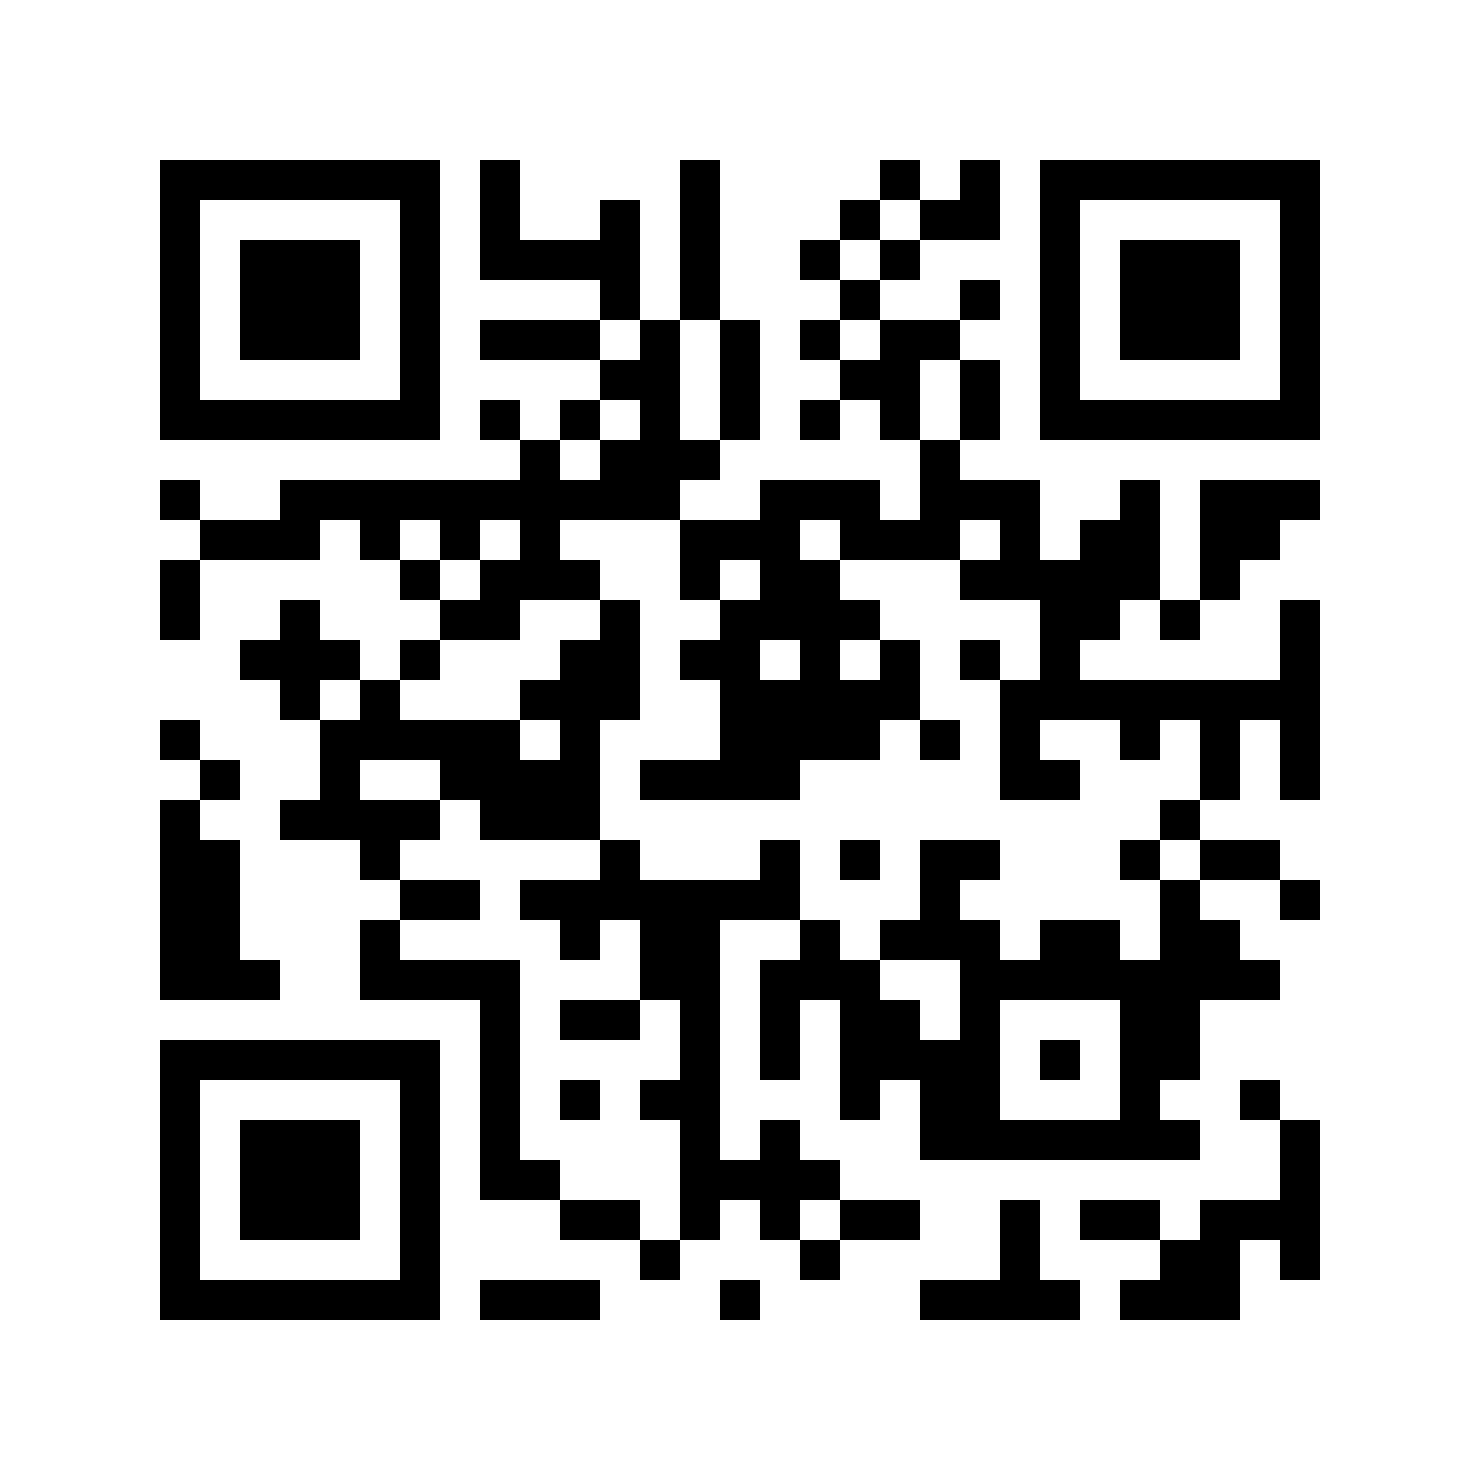
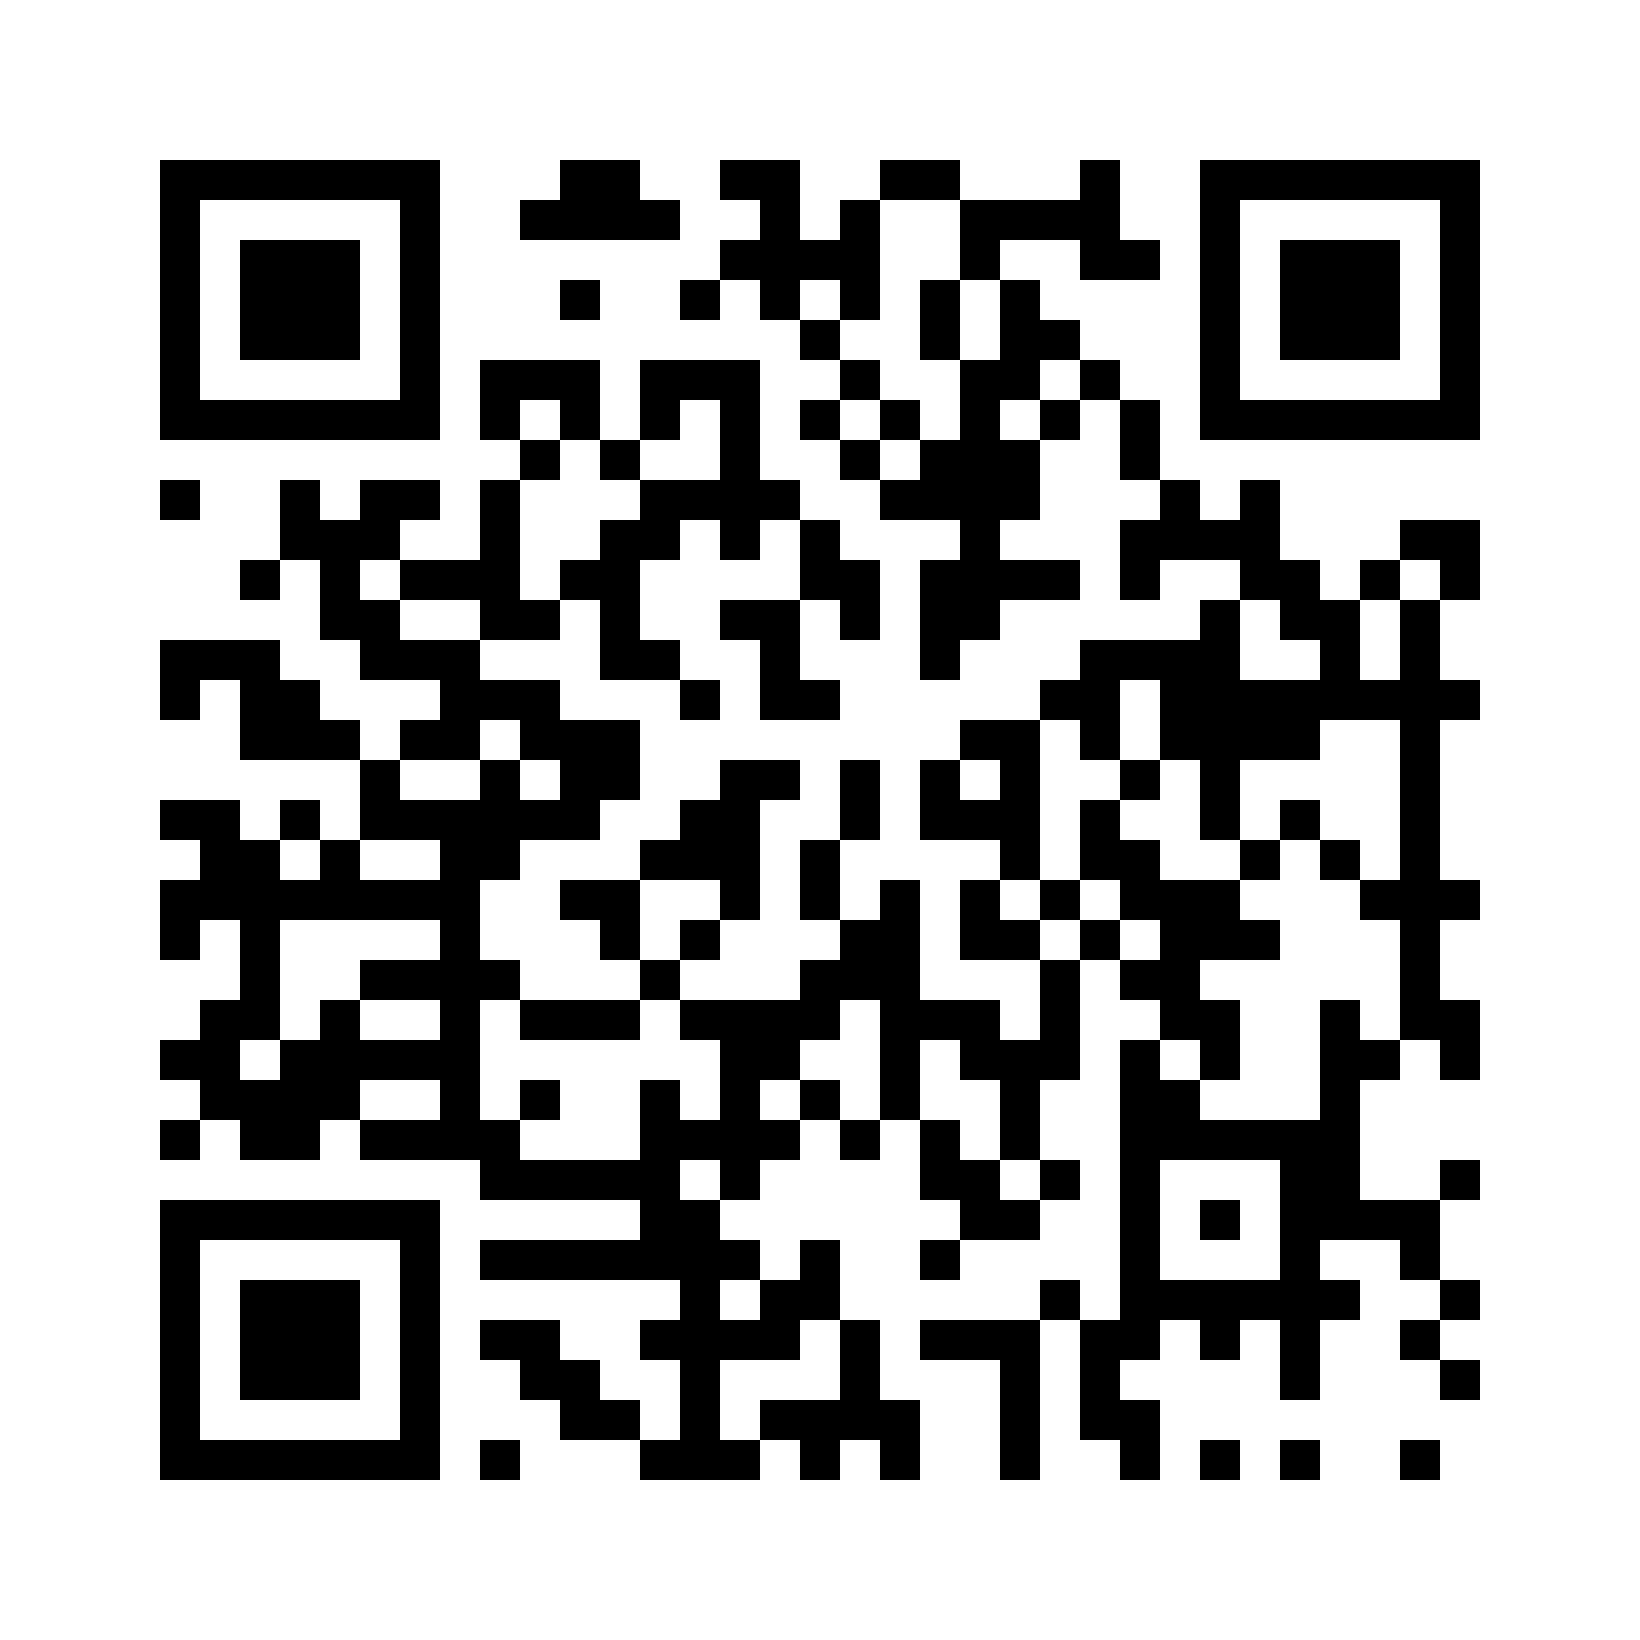
Neue WBD-Seitenadresse und Veranstaltungs-QR; offizielles Mitarbeiterfoto

diff --git a/index.html b/index.html
@@ -6,11 +6,12 @@
 <meta name="color-scheme" content="light">
 <meta name="description" content="Patrick Kreutzer, LL.M. – Digitalisierung und Prozessmanagement bei Wohnbau Derr. Kontaktdaten speichern und auf LinkedIn vernetzen.">
 <meta name="referrer" content="no-referrer">
+<link rel="canonical" href="https://voxxxyn.github.io/visitenkarte-wbd/">
 <title>Patrick Kreutzer, LL.M. · Kontakt</title>
-<link rel="icon" href="assets/profil.png" type="image/png">
+<link rel="icon" href="assets/profil.webp" type="image/webp">
 <style>
 :root{--ink:#202b48;--muted:#58647b;--accent:#231f8e;--paper:#fffefd;--line:#dce1ed;--bg:#f0f2f8}
-*{box-sizing:border-box}body{margin:0;background:var(--bg);color:var(--ink);font-family:-apple-system,BlinkMacSystemFont,"Segoe UI",Arial,sans-serif;line-height:1.5}main{min-height:100svh;display:grid;place-items:center;padding:48px 24px}.card{width:min(900px,100%);background:var(--paper);border:1px solid var(--line);border-radius:28px;overflow:hidden;box-shadow:0 24px 70px #1728630d}.stripe{height:7px;background:var(--accent)}.layout{display:grid;grid-template-columns:1fr 1fr}.identity{padding:48px 42px;background:#f7f8fc;border-right:1px solid var(--line)}.portrait{display:block;width:128px;height:128px;border-radius:50%;margin-bottom:30px}.eyebrow{font-size:11px;font-weight:700;letter-spacing:.17em;text-transform:uppercase;color:var(--accent);margin:0 0 18px}h1{font-family:Georgia,"Times New Roman",serif;font-size:43px;line-height:1.1;font-weight:400;letter-spacing:-.035em;margin:0 0 10px}h1 span{display:block}.degree{font-size:21px;font-family:inherit;color:var(--muted);margin:0 0 24px}.role{font-size:17px;max-width:290px;margin:0 0 8px}.company{font-weight:700;font-size:14px;margin:0;color:var(--accent)}.contact{padding:48px 36px}.intro{font-family:Georgia,"Times New Roman",serif;font-weight:400;font-size:27px;line-height:1.2;margin:0 0 27px}.actions{display:grid;gap:12px}a{color:var(--accent);text-underline-offset:4px}.button{display:flex;align-items:center;justify-content:space-between;gap:12px;min-height:58px;padding:14px 18px;border:1px solid var(--line);border-radius:12px;text-decoration:none;font-size:15px;font-weight:600;background:var(--paper)}.primary{background:var(--accent);border-color:var(--accent);color:white}.button:hover{box-shadow:0 3px 12px #17286316;transform:translateY(-1px)}a:focus-visible,summary:focus-visible{outline:3px solid #a16c12;outline-offset:4px}.arrow{font-size:19px}.contact-data{margin:29px 0 23px}.contact-data dt{font-size:11px;text-transform:uppercase;letter-spacing:.1em;color:var(--muted);margin-top:15px}.contact-data dd{margin:3px 0 0;font-size:14px;overflow-wrap:anywhere}.contact-data a{text-decoration:none}.contact-data a:hover{text-decoration:underline}details{border-top:1px solid var(--line);padding-top:18px}summary{cursor:pointer;font-size:13px;color:var(--muted);padding:3px 0}.qr{display:block;width:min(240px,100%);height:auto;margin:18px auto 8px}.qr-caption{text-align:center;font-size:12px;margin:0 0 9px}.foot{border-top:1px solid var(--line);padding:17px 36px;display:flex;flex-wrap:wrap;gap:8px 20px;justify-content:space-between;font-size:11px;color:var(--muted)}.foot a{color:inherit}
+*{box-sizing:border-box}body{margin:0;background:var(--bg);color:var(--ink);font-family:-apple-system,BlinkMacSystemFont,"Segoe UI",Arial,sans-serif;line-height:1.5}main{min-height:100svh;display:grid;place-items:center;padding:48px 24px}.card{width:min(900px,100%);background:var(--paper);border:1px solid var(--line);border-radius:28px;overflow:hidden;box-shadow:0 24px 70px #1728630d}.stripe{height:7px;background:var(--accent)}.layout{display:grid;grid-template-columns:1fr 1fr}.identity{padding:48px 42px;background:#f7f8fc;border-right:1px solid var(--line)}.portrait{display:block;width:128px;height:128px;object-fit:cover;object-position:50% 35%;border-radius:50%;margin-bottom:30px}.eyebrow{font-size:11px;font-weight:700;letter-spacing:.17em;text-transform:uppercase;color:var(--accent);margin:0 0 18px}h1{font-family:Georgia,"Times New Roman",serif;font-size:43px;line-height:1.1;font-weight:400;letter-spacing:-.035em;margin:0 0 10px}h1 span{display:block}.degree{font-size:21px;font-family:inherit;color:var(--muted);margin:0 0 24px}.role{font-size:17px;max-width:290px;margin:0 0 8px}.company{font-weight:700;font-size:14px;margin:0;color:var(--accent)}.contact{padding:48px 36px}.intro{font-family:Georgia,"Times New Roman",serif;font-weight:400;font-size:27px;line-height:1.2;margin:0 0 27px}.actions{display:grid;gap:12px}a{color:var(--accent);text-underline-offset:4px}.button{display:flex;align-items:center;justify-content:space-between;gap:12px;min-height:58px;padding:14px 18px;border:1px solid var(--line);border-radius:12px;text-decoration:none;font-size:15px;font-weight:600;background:var(--paper)}.primary{background:var(--accent);border-color:var(--accent);color:white}.button:hover{box-shadow:0 3px 12px #17286316;transform:translateY(-1px)}a:focus-visible,summary:focus-visible{outline:3px solid #a16c12;outline-offset:4px}.arrow{font-size:19px}.contact-data{margin:29px 0 23px}.contact-data dt{font-size:11px;text-transform:uppercase;letter-spacing:.1em;color:var(--muted);margin-top:15px}.contact-data dd{margin:3px 0 0;font-size:14px;overflow-wrap:anywhere}.contact-data a{text-decoration:none}.contact-data a:hover{text-decoration:underline}details{border-top:1px solid var(--line);padding-top:18px}summary{cursor:pointer;font-size:13px;color:var(--muted);padding:3px 0}.qr{display:block;width:min(240px,100%);height:auto;margin:18px auto 8px}.qr-caption{text-align:center;font-size:12px;margin:0 0 9px}.foot{border-top:1px solid var(--line);padding:17px 36px;display:flex;flex-wrap:wrap;gap:8px 20px;justify-content:space-between;font-size:11px;color:var(--muted)}.foot a{color:inherit}
 @media(max-width:650px){main{padding:18px 14px}.card{max-width:440px;border-radius:22px}.layout{grid-template-columns:1fr}.identity{padding:30px 27px;border-right:0;border-bottom:1px solid var(--line)}.portrait{width:108px;height:108px;margin-bottom:22px}h1{font-size:39px}h1 span{display:inline}.degree{margin-bottom:18px}.role{max-width:none}.contact{padding:28px 27px}.intro{font-size:25px;margin-bottom:21px}.foot{padding:17px 27px}.contact-data dd{font-size:14px}}
 @media(prefers-reduced-motion:reduce){.button:hover{transform:none}}
 @media print{main{padding:0;min-height:auto}.card{box-shadow:none}details{display:block}details>img,details>p{display:block}.button{color:var(--ink);background:white}}
@@ -22,7 +23,7 @@
 <div class="stripe"></div>
 <div class="layout">
 <header class="identity">
-<img class="portrait" src="assets/profil.png" alt="Profilfoto von Patrick Kreutzer" width="192" height="192">
+<img class="portrait" src="assets/profil.webp" alt="Patrick Kreutzer vor blauem Hintergrund – Foto von Wohnbau Derr" width="768" height="512">
 <p class="eyebrow">Digitale Visitenkarte</p>
 <h1 id="name">Patrick <span>Kreutzer</span></h1>
 <p class="degree">LL.M.</p>
@@ -45,7 +46,7 @@
 </dl>
 <details>
 <summary>Diese Visitenkarte teilen · QR-Code</summary>
-<img class="qr" src="assets/visitenkarte-qr.png" alt="QR-Code zu dieser digitalen Visitenkarte" width="1480" height="1480">
+<img class="qr" src="assets/visitenkarte-qr.png" alt="QR-Code zu dieser digitalen Visitenkarte" width="1640" height="1640">
 <p class="qr-caption">Scannen und Kontaktdaten speichern.</p>
 <p class="qr-caption"><a href="assets/visitenkarte-qr.png" download="Patrick-Kreutzer-Visitenkarte-QR.png">QR als Bild speichern</a> · <a href="assets/visitenkarte-qr.svg" download="Patrick-Kreutzer-Visitenkarte-QR.svg">Druckdatei</a></p>
 </details>

diff --git a/README.md b/README.md
@@ -1,13 +1,30 @@
-# Patrick Kreutzer, LL.M. – Digitale Visitenkarte
+# Patrick Kreutzer, LL.M. – Digitale Visitenkarte Wohnbau Derr
 
-Öffentliche Visitenkarte: https://Voxxxyn.github.io/visitenkarte/
+Version 5, 24.10.2026.
 
-Statische Webseite mit lokalem Profilfoto, Kontaktimport als vCard, Mobil- und Festnetznummer, E-Mail sowie LinkedIn-Link und LinkedIn-QR. Keine externen Skripte, Schriftarten oder Analysewerkzeuge.
+Öffentliche Seite: https://voxxxyn.github.io/visitenkarte-wbd/
+Repository: https://github.com/Voxxxyn/visitenkarte-wbd
 
-## Pflege
+## Für Veranstaltungen
 
-Kontaktdaten in index.html und patrick-kreutzer.vcf gemeinsam ändern. Den Pfad der Seite beibehalten, damit der Veranstaltungs-QR gültig bleibt.
+`assets/visitenkarte-qr.png` öffnet die neue Seitenadresse. `assets/visitenkarte-qr.svg` ist die skalierbare Druckdatei. Den weißen Rand nicht abschneiden. Vor einem Druck den QR mit dem Smartphone testen.
 
-## Veröffentlichung
+Frühere Veranstaltungs-QR-Codes aus den Versionen 1 bis 4 enthalten den alten Seitenpfad und müssen ersetzt werden. Diese Adresse wurde durch die Umbenennung geändert. Die LinkedIn-QR-Datei führt weiterhin direkt zum LinkedIn-Profil.
 
-GitHub Pages: main, /(root). Kein Build erforderlich.
+## Dateien und lokale Nutzung
+
+ZIP vollständig entpacken und index.html öffnen. Die Seite, Foto und QR-Dateien liegen lokal im Paket; keine externen Schriftarten oder Skripte. LinkedIn und externe Websites benötigen Internet. „Kontakt speichern“ öffnet oder lädt die vCard; Import anschließend im Kontaktprogramm bestätigen.
+
+- index.html: Visitenkarte mit Wohnbau-Derr-Blau, Mobil- und Büro-Nummer, E-Mail, LinkedIn und Teilen-Funktion.
+- assets/profil.webp: offizielles Mitarbeiterfoto von Wohnbau Derr mit blauem Hintergrund, proportional für die Webseite verkleinert; kreisförmige Anzeige im Browser.
+- patrick-kreutzer.vcf: Kontaktdaten mit Mobil- und Büronummer.
+- assets/visitenkarte-qr.png und .svg: neue Veranstaltungs-QR-Dateien.
+- assets/linkedin-qr.png: direkter LinkedIn-Profillink.
+- QUELLEN.md und PRUEFBERICHT.md: Herkunft und Prüfungen.
+- .nojekyll: statische Auslieferung.
+
+## Pflege und GitHub Pages
+
+Repository → Settings → Pages: Deploy from a branch, main, /(root). Dateien direkt im Hauptverzeichnis ablegen; kein zusätzlicher Ordner und kein Build erforderlich. Kontaktdaten in index.html und patrick-kreutzer.vcf gemeinsam ändern. Solange die Seitenadresse gleich bleibt, bleibt der neue Veranstaltungs-QR gültig.
+
+LinkedIn verwendet einen direkten HTTPS-Profillink. Ob die installierte LinkedIn-App öffnet, hängt von iOS und der gespeicherten Gerätepräferenz ab. Falls nötig den Profillink in Notizen lange drücken und, wenn angeboten, „In LinkedIn öffnen“ auswählen. Die Webseite kann dies nicht erzwingen.
